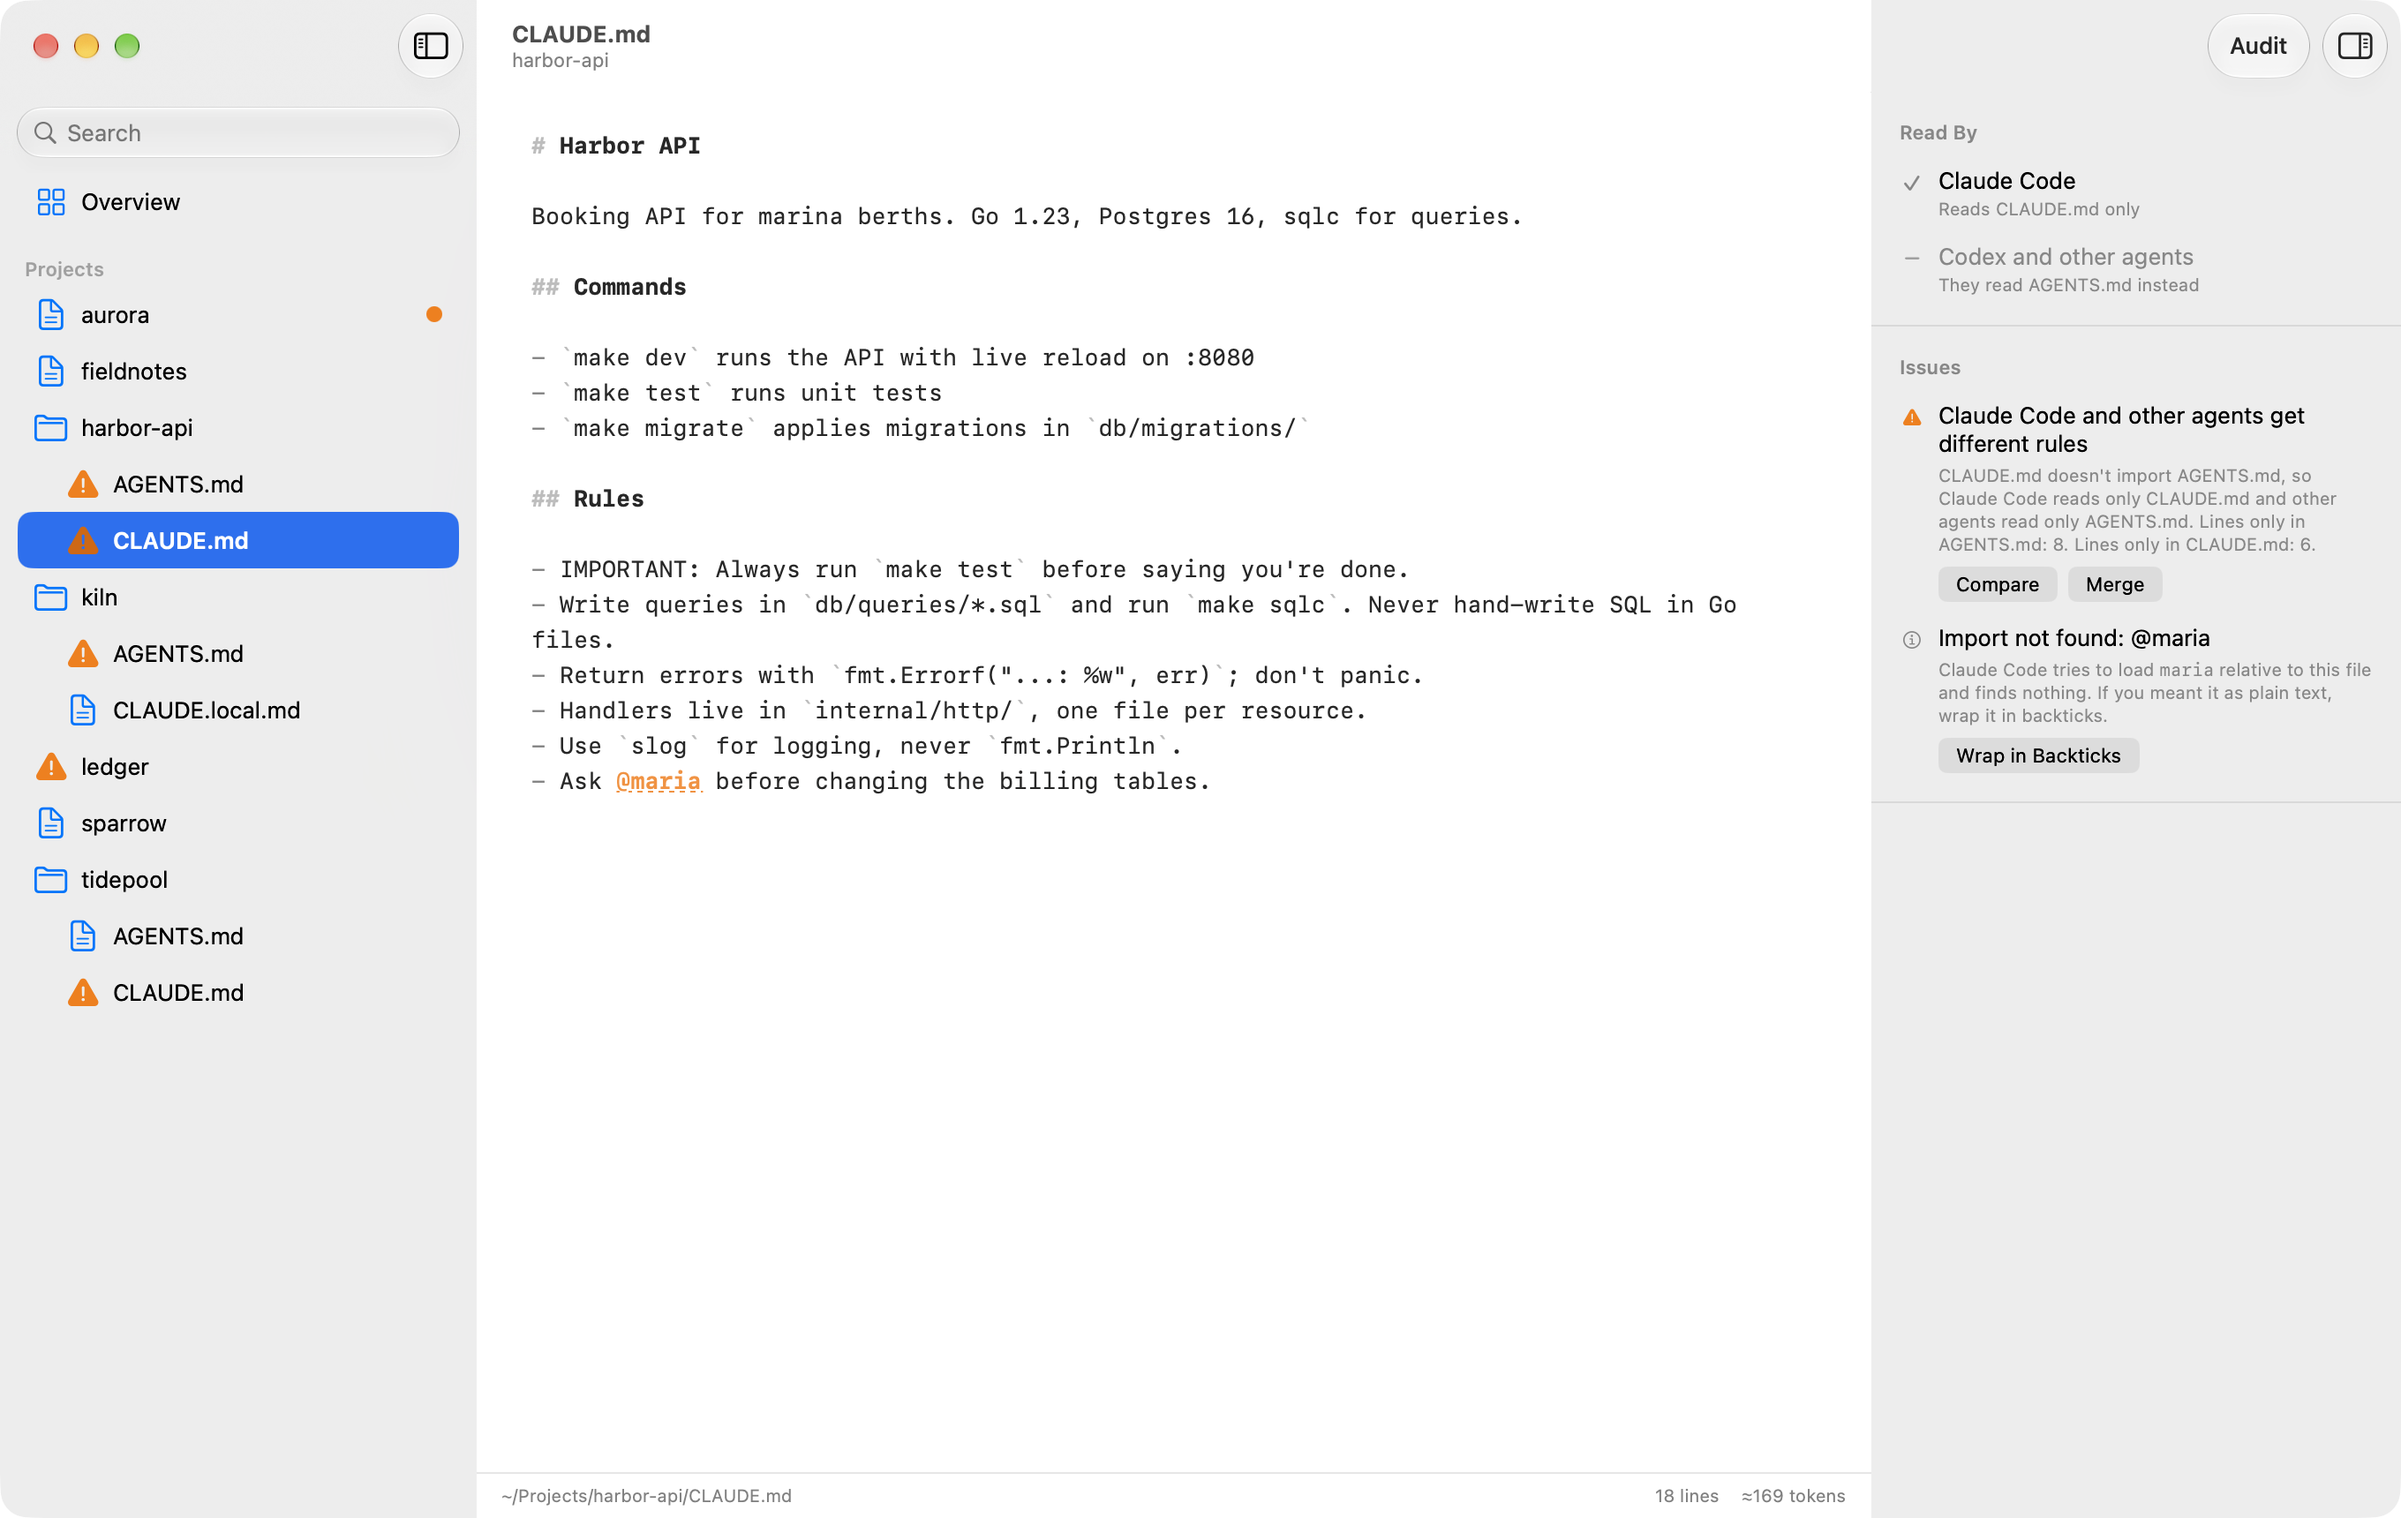
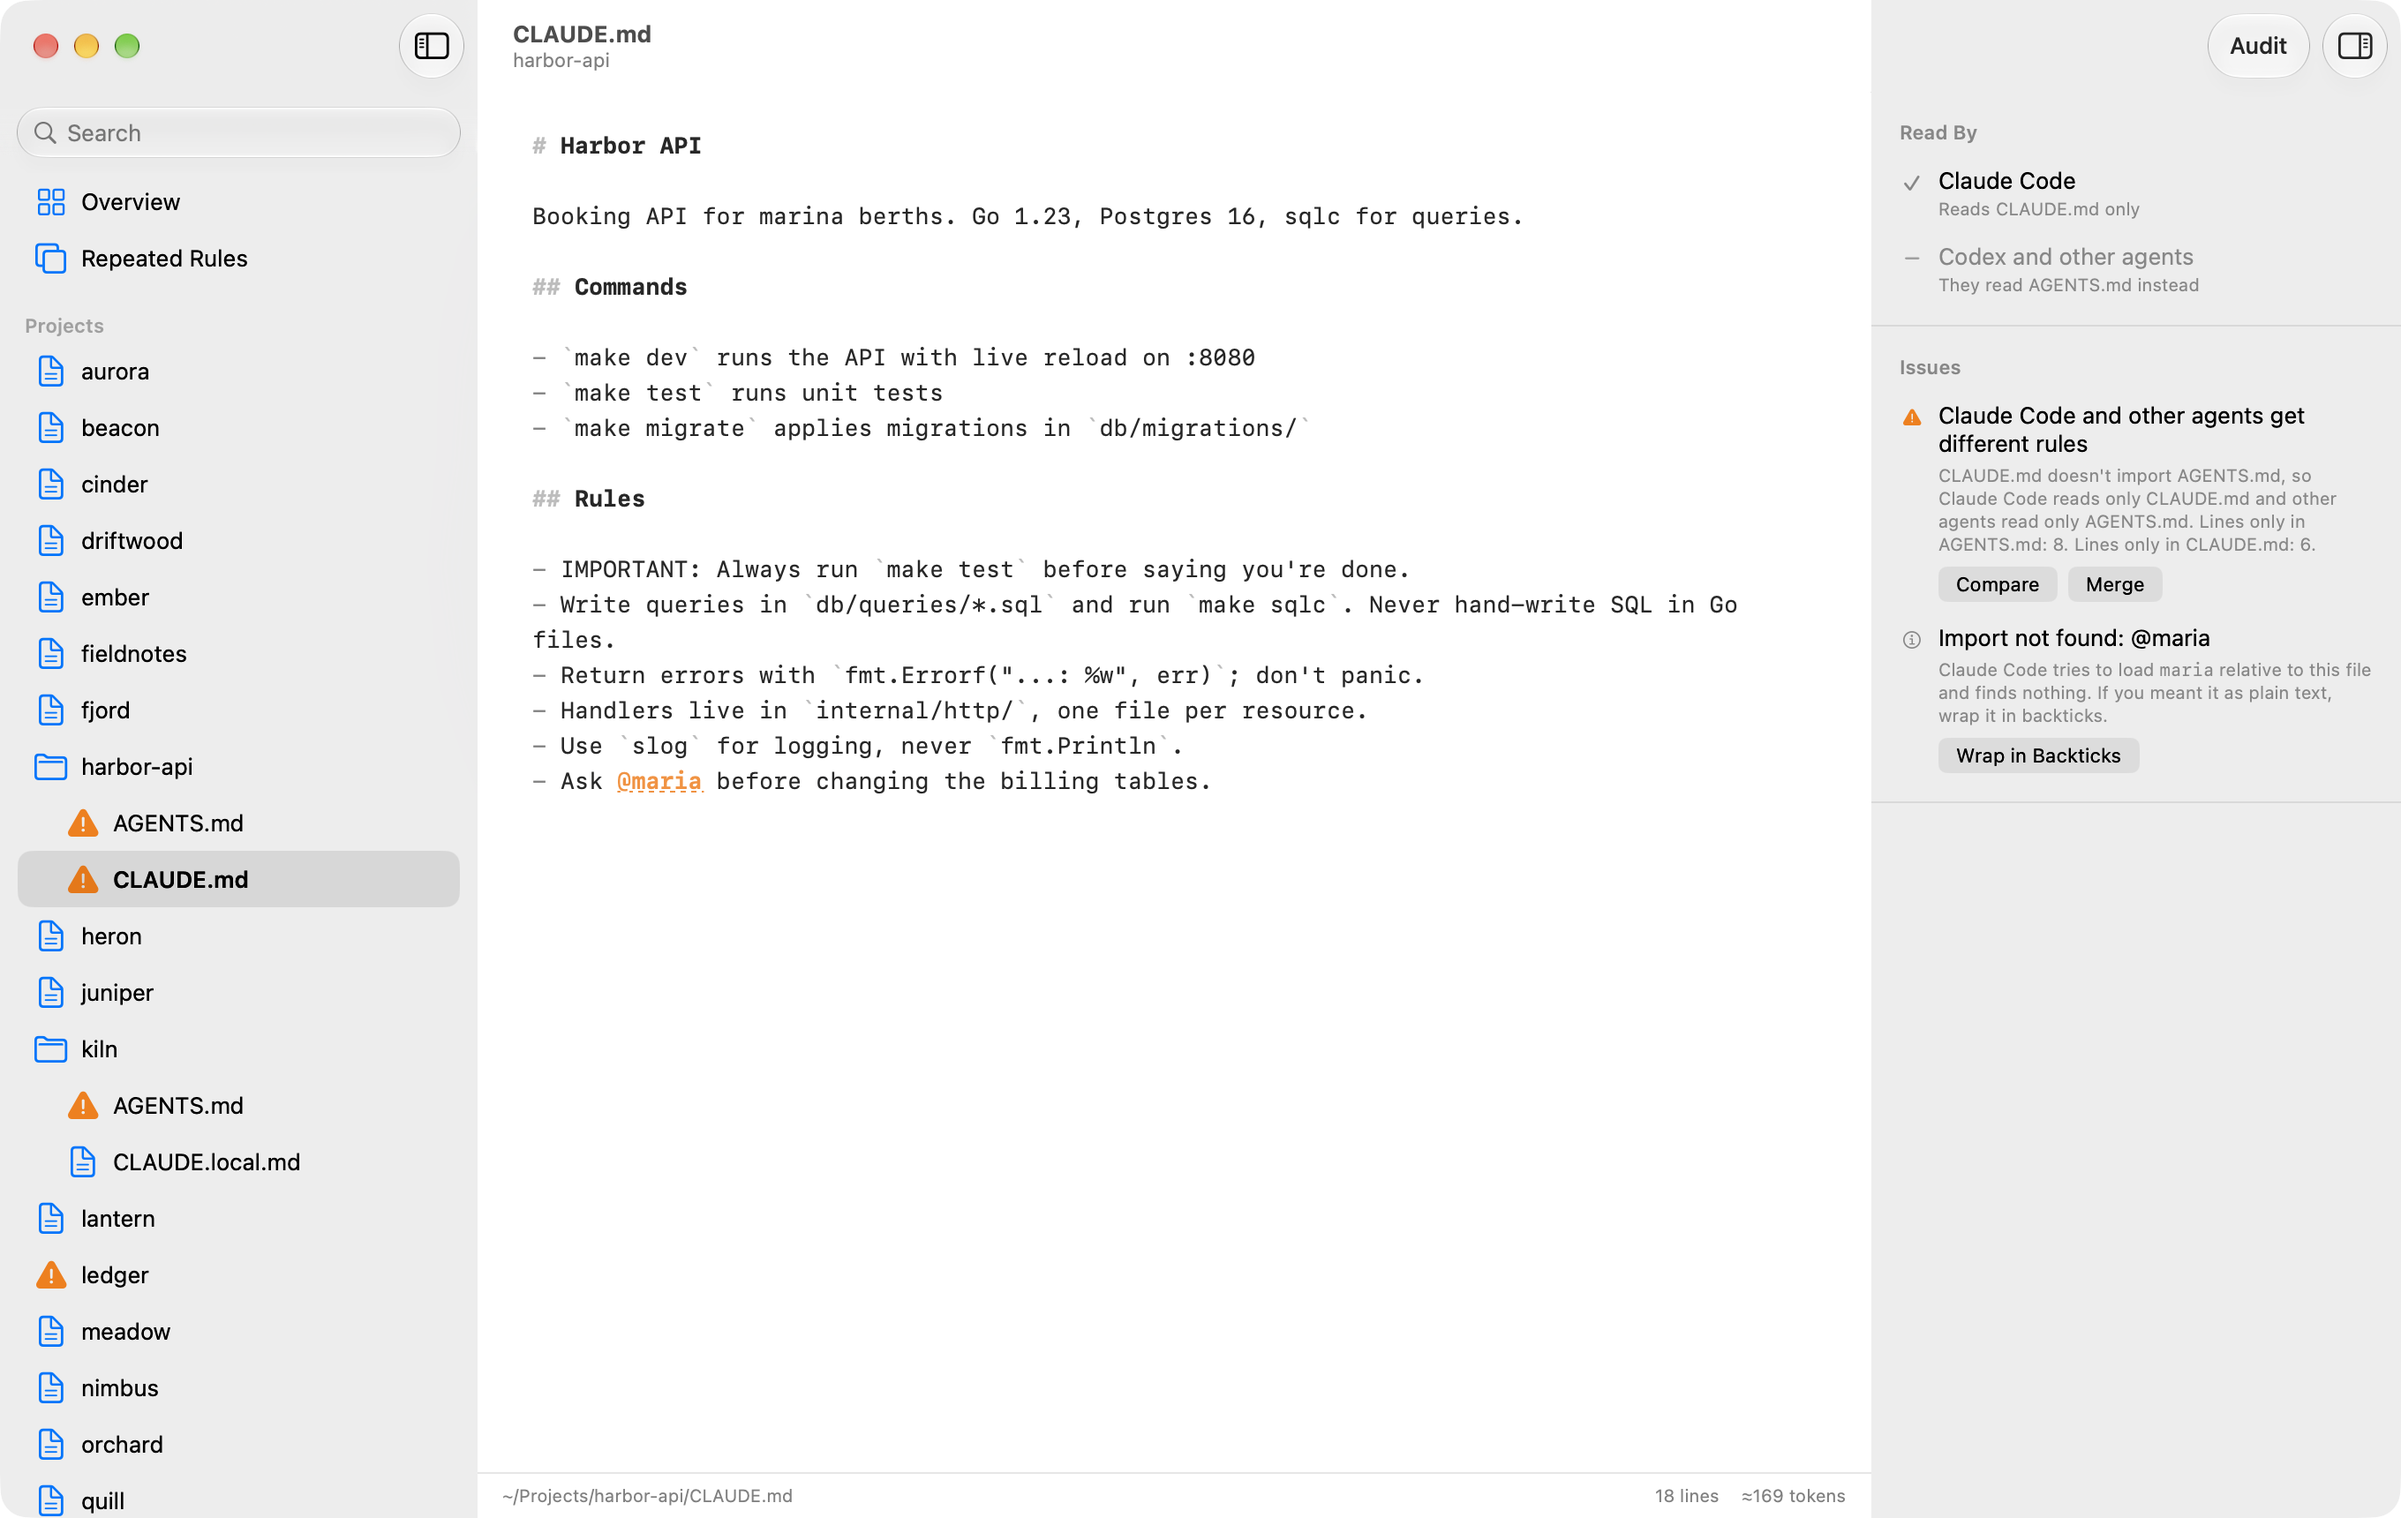
Show Repeated Rules on the website
- A section for it in both languages, with its screenshot
- Every screenshot taken again from the larger demo, so the overview fills its window

diff --git a/docs/zh/index.html b/docs/zh/index.html
@@ -45,7 +45,7 @@
     </div>
   </div>
 
-  <figure><img src="../screenshots/zh/overview.webp" width="2720" height="1720" alt="Rulebook 的概览：项目文件夹里所有指令文件的列表，需要处理的排在最前"></figure>
+  <figure><img src="../screenshots/zh/overview.webp" width="2720" height="1720" alt="Rulebook 的概览：项目文件夹里的所有指令文件、由哪些智能体读取，需要处理的排在最前"></figure>
 
   <section>
     <h2>看清每个智能体实际读到了什么</h2>
@@ -64,6 +64,12 @@
     <h2>对比并合并已经不一致的文件</h2>
     <p>两份文件出现差异时，“对比”会把它们并排显示。“合并”会让你的智能体把两者合成一份 <code>AGENTS.md</code>，以及一份导入它的 <code>CLAUDE.md</code>。存储之前，你可以先检查结果。</p>
     <figure><img src="../screenshots/zh/compare.webp" width="2720" height="1720" loading="lazy" alt="AGENTS.md 和 CLAUDE.md 并排显示，只有一方能读到的行被高亮"></figure>
+  </section>
+
+  <section>
+    <h2>找出在各个项目里重复的规则</h2>
+    <p>“重复的规则”会列出写在多个项目里的规则，比如八份 <code>AGENTS.md</code> 里都有的“Use pnpm, never npm or yarn”，措辞不同的也会归在一起。把一条规则移到全局文件后，Rulebook 会把它加到 <code>~/.claude/CLAUDE.md</code> 和 <code>~/.codex/AGENTS.md</code>，再从各个项目中移除，存储前你可以先检查。</p>
+    <figure><img src="../screenshots/zh/repeated.webp" width="2720" height="1720" loading="lazy" alt="重复的规则：一条写在八个项目里的规则，其中一份措辞不同，并列出每一份所在的位置"></figure>
   </section>
 
   <section>

diff --git a/docs/index.html b/docs/index.html
@@ -45,7 +45,7 @@
     </div>
   </div>
 
-  <figure><img src="screenshots/overview.webp" width="2720" height="1720" alt="Rulebook's overview: a table of every instruction file in a projects folder, with the ones that need attention at the top"></figure>
+  <figure><img src="screenshots/overview.webp" width="2720" height="1720" alt="Rulebook's overview: every instruction file in a projects folder, which agents read it, and the ones that need attention at the top"></figure>
 
   <section>
     <h2>See what each agent actually reads</h2>
@@ -64,6 +64,12 @@
     <h2>Compare and merge files that drifted</h2>
     <p>When two files have drifted apart, Compare puts them side by side. Merge asks your agent to combine them into one <code>AGENTS.md</code> and a <code>CLAUDE.md</code> that imports it. You review the result before anything is saved.</p>
     <figure><img src="screenshots/compare.webp" width="2720" height="1720" loading="lazy" alt="AGENTS.md and CLAUDE.md side by side, with the lines only one agent sees highlighted"></figure>
+  </section>
+
+  <section>
+    <h2>Find the rules you repeat across projects</h2>
+    <p>Repeated Rules lists the rules written into more than one project, like “Use pnpm, never npm or yarn” in eight <code>AGENTS.md</code> files, and groups the ones worded differently. Move one to your global files and Rulebook adds it to <code>~/.claude/CLAUDE.md</code> and <code>~/.codex/AGENTS.md</code>, then takes the copies out of each project for you to review.</p>
+    <figure><img src="screenshots/repeated.webp" width="2720" height="1720" loading="lazy" alt="Repeated Rules: a rule written into eight projects, one of them in different words, with where each copy is"></figure>
   </section>
 
   <section>

diff --git a/README.md b/README.md
@@ -32,7 +32,11 @@ When `CLAUDE.md` and `AGENTS.md` have drifted apart, Compare shows them side by 
 
 ## Repeated rules
 
-Repeated Rules lists the rules written into more than one project, such as "Always use pnpm" in seven `AGENTS.md` files. Rules that say the same thing in different words are grouped together, and each copy opens at its line. A rule you want everywhere could live in `~/.claude/CLAUDE.md` or `~/.codex/AGENTS.md` instead.
+Repeated Rules lists the rules written into more than one project, such as "Always use pnpm" in seven `AGENTS.md` files. Rules that say the same thing in different words are grouped together, and each copy opens at its line.
+
+Move to Global Files adds a rule to `~/.claude/CLAUDE.md`, which Claude Code reads in every project, and `~/.codex/AGENTS.md`, which Codex reads. The copies it covers come out of each project as unsaved changes for you to review; a copy that says more stays. Agents without a global file, like Cursor, stop getting the rule from those projects.
+
+![Repeated Rules: a rule in eight projects, one of them worded differently](docs/screenshots/repeated.webp)
 
 ## Audits
 
